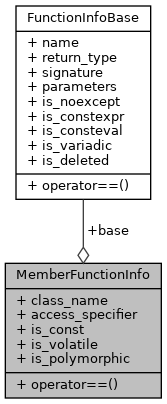
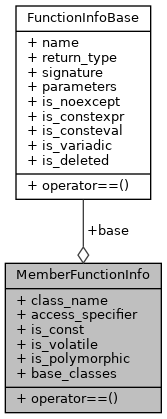
deploy: 15a5d1b0938e9108d34731b1898af5dda5c6f141

Changed region(s): [[0.0898, 0.0, 0.9281, 0.505], [0.0, 0.5941, 0.988, 1.0], [0.5389, 0.5347, 0.7784, 0.5941]]

diff --git a/_function_info_8h_source.html b/_function_info_8h_source.html
@@ -121,32 +121,33 @@ $(document).ready(function(){initNavTree('_function_info_8h_source.html',''); in
 <div class="line"><a name="l00045"></a><span class="lineno">   45</span>&#160;  <span class="keywordtype">bool</span> is_const = <span class="keyword">false</span>;</div>
 <div class="line"><a name="l00046"></a><span class="lineno">   46</span>&#160;  <span class="keywordtype">bool</span> is_volatile = <span class="keyword">false</span>;</div>
 <div class="line"><a name="l00047"></a><span class="lineno">   47</span>&#160;  <span class="keywordtype">bool</span> is_polymorphic = <span class="keyword">false</span>;  </div>
-<div class="line"><a name="l00048"></a><span class="lineno">   48</span>&#160; </div>
-<div class="line"><a name="l00049"></a><span class="lineno"><a class="line" href="struct_member_function_info.html#af4486e4066ab4496961a2c0274f5141f">   49</a></span>&#160;  <span class="keywordtype">bool</span> <a class="code" href="struct_member_function_info.html#af4486e4066ab4496961a2c0274f5141f">operator== </a>(<span class="keyword">const</span> <a class="code" href="struct_member_function_info.html">MemberFunctionInfo</a> &amp;rhs) <span class="keyword">const</span> noexcept {</div>
-<div class="line"><a name="l00050"></a><span class="lineno">   50</span>&#160;    <span class="keywordflow">return</span> (base == rhs.base</div>
-<div class="line"><a name="l00051"></a><span class="lineno">   51</span>&#160;      &amp;&amp; class_name == rhs.class_name</div>
-<div class="line"><a name="l00052"></a><span class="lineno">   52</span>&#160;      &amp;&amp; is_const == rhs.is_const</div>
-<div class="line"><a name="l00053"></a><span class="lineno">   53</span>&#160;      &amp;&amp; is_volatile == rhs.is_volatile</div>
-<div class="line"><a name="l00054"></a><span class="lineno">   54</span>&#160;    );</div>
-<div class="line"><a name="l00055"></a><span class="lineno">   55</span>&#160;  }</div>
-<div class="line"><a name="l00056"></a><span class="lineno">   56</span>&#160; </div>
-<div class="line"><a name="l00057"></a><span class="lineno">   57</span>&#160;} <a class="code" href="struct_member_function_info.html">MemberFunctionInfo</a>;</div>
-<div class="line"><a name="l00058"></a><span class="lineno">   58</span>&#160; </div>
-<div class="line"><a name="l00063"></a><span class="lineno"><a class="line" href="struct_function_info.html">   63</a></span>&#160;<span class="keyword">typedef</span> <span class="keyword">struct </span><a class="code" href="struct_function_info.html">FunctionInfo</a> {</div>
-<div class="line"><a name="l00064"></a><span class="lineno">   64</span>&#160;  <a class="code" href="struct_function_info_base.html">FunctionInfoBase</a> base;</div>
-<div class="line"><a name="l00065"></a><span class="lineno">   65</span>&#160;  <span class="keywordtype">bool</span> is_extern = <span class="keyword">false</span>;</div>
-<div class="line"><a name="l00066"></a><span class="lineno">   66</span>&#160;  <span class="keywordtype">bool</span> is_static = <span class="keyword">false</span>;</div>
-<div class="line"><a name="l00067"></a><span class="lineno">   67</span>&#160; </div>
-<div class="line"><a name="l00068"></a><span class="lineno">   68</span>&#160;  <span class="keywordtype">bool</span> operator== (<span class="keyword">const</span> <a class="code" href="struct_function_info.html">FunctionInfo</a> &amp;rhs) <span class="keyword">const</span> noexcept {</div>
-<div class="line"><a name="l00069"></a><span class="lineno">   69</span>&#160;    <span class="keywordflow">return</span> (base == rhs.base</div>
-<div class="line"><a name="l00070"></a><span class="lineno">   70</span>&#160;    );</div>
-<div class="line"><a name="l00071"></a><span class="lineno">   71</span>&#160;  }</div>
-<div class="line"><a name="l00072"></a><span class="lineno">   72</span>&#160;} <a class="code" href="struct_function_info.html">FunctionInfo</a>;</div>
+<div class="line"><a name="l00048"></a><span class="lineno"><a class="line" href="struct_member_function_info.html#a7a6d151d49ed90f919416332c3b09677">   48</a></span>&#160;  std::vector&lt;std::string&gt; <a class="code" href="struct_member_function_info.html#a7a6d151d49ed90f919416332c3b09677">base_classes</a>;</div>
+<div class="line"><a name="l00049"></a><span class="lineno">   49</span>&#160; </div>
+<div class="line"><a name="l00050"></a><span class="lineno">   50</span>&#160;  <span class="keywordtype">bool</span> operator== (<span class="keyword">const</span> <a class="code" href="struct_member_function_info.html">MemberFunctionInfo</a> &amp;rhs) <span class="keyword">const</span> noexcept {</div>
+<div class="line"><a name="l00051"></a><span class="lineno">   51</span>&#160;    <span class="keywordflow">return</span> (base == rhs.base</div>
+<div class="line"><a name="l00052"></a><span class="lineno">   52</span>&#160;      &amp;&amp; class_name == rhs.class_name</div>
+<div class="line"><a name="l00053"></a><span class="lineno">   53</span>&#160;      &amp;&amp; is_const == rhs.is_const</div>
+<div class="line"><a name="l00054"></a><span class="lineno">   54</span>&#160;      &amp;&amp; is_volatile == rhs.is_volatile</div>
+<div class="line"><a name="l00055"></a><span class="lineno">   55</span>&#160;    );</div>
+<div class="line"><a name="l00056"></a><span class="lineno">   56</span>&#160;  }</div>
+<div class="line"><a name="l00057"></a><span class="lineno">   57</span>&#160; </div>
+<div class="line"><a name="l00058"></a><span class="lineno">   58</span>&#160;} <a class="code" href="struct_member_function_info.html">MemberFunctionInfo</a>;</div>
+<div class="line"><a name="l00059"></a><span class="lineno">   59</span>&#160; </div>
+<div class="line"><a name="l00064"></a><span class="lineno"><a class="line" href="struct_function_info.html">   64</a></span>&#160;<span class="keyword">typedef</span> <span class="keyword">struct </span><a class="code" href="struct_function_info.html">FunctionInfo</a> {</div>
+<div class="line"><a name="l00065"></a><span class="lineno">   65</span>&#160;  <a class="code" href="struct_function_info_base.html">FunctionInfoBase</a> base;</div>
+<div class="line"><a name="l00066"></a><span class="lineno">   66</span>&#160;  <span class="keywordtype">bool</span> is_extern = <span class="keyword">false</span>;</div>
+<div class="line"><a name="l00067"></a><span class="lineno">   67</span>&#160;  <span class="keywordtype">bool</span> is_static = <span class="keyword">false</span>;</div>
+<div class="line"><a name="l00068"></a><span class="lineno">   68</span>&#160; </div>
+<div class="line"><a name="l00069"></a><span class="lineno">   69</span>&#160;  <span class="keywordtype">bool</span> operator== (<span class="keyword">const</span> <a class="code" href="struct_function_info.html">FunctionInfo</a> &amp;rhs) <span class="keyword">const</span> noexcept {</div>
+<div class="line"><a name="l00070"></a><span class="lineno">   70</span>&#160;    <span class="keywordflow">return</span> (base == rhs.base</div>
+<div class="line"><a name="l00071"></a><span class="lineno">   71</span>&#160;    );</div>
+<div class="line"><a name="l00072"></a><span class="lineno">   72</span>&#160;  }</div>
+<div class="line"><a name="l00073"></a><span class="lineno">   73</span>&#160;} <a class="code" href="struct_function_info.html">FunctionInfo</a>;</div>
 <div class="ttc" id="astruct_function_info_base_html"><div class="ttname"><a href="struct_function_info_base.html">FunctionInfoBase</a></div><div class="ttdef"><b>Definition:</b> FunctionInfo.h:5</div></div>
 <div class="ttc" id="astruct_function_info_base_html_a1328156eaf47d5de0c595598dc772e3c"><div class="ttname"><a href="struct_function_info_base.html#a1328156eaf47d5de0c595598dc772e3c">FunctionInfoBase::operator==</a></div><div class="ttdeci">bool operator==(const FunctionInfoBase &amp;rhs) const noexcept</div><div class="ttdoc">operator== for overload check</div><div class="ttdef"><b>Definition:</b> FunctionInfo.h:25</div></div>
-<div class="ttc" id="astruct_function_info_html"><div class="ttname"><a href="struct_function_info.html">FunctionInfo</a></div><div class="ttdoc">Function Info.</div><div class="ttdef"><b>Definition:</b> FunctionInfo.h:63</div></div>
+<div class="ttc" id="astruct_function_info_html"><div class="ttname"><a href="struct_function_info.html">FunctionInfo</a></div><div class="ttdoc">Function Info.</div><div class="ttdef"><b>Definition:</b> FunctionInfo.h:64</div></div>
 <div class="ttc" id="astruct_member_function_info_html"><div class="ttname"><a href="struct_member_function_info.html">MemberFunctionInfo</a></div><div class="ttdoc">Member Function Info.</div><div class="ttdef"><b>Definition:</b> FunctionInfo.h:36</div></div>
-<div class="ttc" id="astruct_member_function_info_html_af4486e4066ab4496961a2c0274f5141f"><div class="ttname"><a href="struct_member_function_info.html#af4486e4066ab4496961a2c0274f5141f">MemberFunctionInfo::operator==</a></div><div class="ttdeci">bool operator==(const MemberFunctionInfo &amp;rhs) const noexcept</div><div class="ttdoc">virtual, override or final</div><div class="ttdef"><b>Definition:</b> FunctionInfo.h:49</div></div>
+<div class="ttc" id="astruct_member_function_info_html_a7a6d151d49ed90f919416332c3b09677"><div class="ttname"><a href="struct_member_function_info.html#a7a6d151d49ed90f919416332c3b09677">MemberFunctionInfo::base_classes</a></div><div class="ttdeci">std::vector&lt; std::string &gt; base_classes</div><div class="ttdoc">virtual, override or final</div><div class="ttdef"><b>Definition:</b> FunctionInfo.h:48</div></div>
 </div><!-- fragment --></div><!-- contents -->
 </div><!-- doc-content -->
 <!-- start footer part -->

diff --git a/struct_member_function_info-members.html b/struct_member_function_info-members.html
@@ -93,11 +93,12 @@ $(document).ready(function(){initNavTree('struct_member_function_info.html','');
   <tr bgcolor="#f0f0f0" class="even"><td class="entry"><b>access_specifier</b> (defined in <a class="el" href="struct_member_function_info.html">MemberFunctionInfo</a>)</td><td class="entry"><a class="el" href="struct_member_function_info.html">MemberFunctionInfo</a></td><td class="entry"></td></tr>
   <tr bgcolor="#f0f0f0"><td class="entry"><b>AccessSpecifier</b> enum name (defined in <a class="el" href="struct_member_function_info.html">MemberFunctionInfo</a>)</td><td class="entry"><a class="el" href="struct_member_function_info.html">MemberFunctionInfo</a></td><td class="entry"></td></tr>
   <tr bgcolor="#f0f0f0" class="even"><td class="entry"><b>base</b> (defined in <a class="el" href="struct_member_function_info.html">MemberFunctionInfo</a>)</td><td class="entry"><a class="el" href="struct_member_function_info.html">MemberFunctionInfo</a></td><td class="entry"></td></tr>
-  <tr bgcolor="#f0f0f0"><td class="entry"><b>class_name</b> (defined in <a class="el" href="struct_member_function_info.html">MemberFunctionInfo</a>)</td><td class="entry"><a class="el" href="struct_member_function_info.html">MemberFunctionInfo</a></td><td class="entry"></td></tr>
-  <tr bgcolor="#f0f0f0" class="even"><td class="entry"><b>is_const</b> (defined in <a class="el" href="struct_member_function_info.html">MemberFunctionInfo</a>)</td><td class="entry"><a class="el" href="struct_member_function_info.html">MemberFunctionInfo</a></td><td class="entry"></td></tr>
-  <tr bgcolor="#f0f0f0"><td class="entry"><b>is_polymorphic</b> (defined in <a class="el" href="struct_member_function_info.html">MemberFunctionInfo</a>)</td><td class="entry"><a class="el" href="struct_member_function_info.html">MemberFunctionInfo</a></td><td class="entry"></td></tr>
-  <tr bgcolor="#f0f0f0" class="even"><td class="entry"><b>is_volatile</b> (defined in <a class="el" href="struct_member_function_info.html">MemberFunctionInfo</a>)</td><td class="entry"><a class="el" href="struct_member_function_info.html">MemberFunctionInfo</a></td><td class="entry"></td></tr>
-  <tr><td class="entry"><a class="el" href="struct_member_function_info.html#af4486e4066ab4496961a2c0274f5141f">operator==</a>(const MemberFunctionInfo &amp;rhs) const noexcept</td><td class="entry"><a class="el" href="struct_member_function_info.html">MemberFunctionInfo</a></td><td class="entry"><span class="mlabel">inline</span></td></tr>
+  <tr><td class="entry"><a class="el" href="struct_member_function_info.html#a7a6d151d49ed90f919416332c3b09677">base_classes</a></td><td class="entry"><a class="el" href="struct_member_function_info.html">MemberFunctionInfo</a></td><td class="entry"></td></tr>
+  <tr bgcolor="#f0f0f0" class="even"><td class="entry"><b>class_name</b> (defined in <a class="el" href="struct_member_function_info.html">MemberFunctionInfo</a>)</td><td class="entry"><a class="el" href="struct_member_function_info.html">MemberFunctionInfo</a></td><td class="entry"></td></tr>
+  <tr bgcolor="#f0f0f0"><td class="entry"><b>is_const</b> (defined in <a class="el" href="struct_member_function_info.html">MemberFunctionInfo</a>)</td><td class="entry"><a class="el" href="struct_member_function_info.html">MemberFunctionInfo</a></td><td class="entry"></td></tr>
+  <tr bgcolor="#f0f0f0" class="even"><td class="entry"><b>is_polymorphic</b> (defined in <a class="el" href="struct_member_function_info.html">MemberFunctionInfo</a>)</td><td class="entry"><a class="el" href="struct_member_function_info.html">MemberFunctionInfo</a></td><td class="entry"></td></tr>
+  <tr bgcolor="#f0f0f0"><td class="entry"><b>is_volatile</b> (defined in <a class="el" href="struct_member_function_info.html">MemberFunctionInfo</a>)</td><td class="entry"><a class="el" href="struct_member_function_info.html">MemberFunctionInfo</a></td><td class="entry"></td></tr>
+  <tr bgcolor="#f0f0f0" class="even"><td class="entry"><b>operator==</b>(const MemberFunctionInfo &amp;rhs) const noexcept (defined in <a class="el" href="struct_member_function_info.html">MemberFunctionInfo</a>)</td><td class="entry"><a class="el" href="struct_member_function_info.html">MemberFunctionInfo</a></td><td class="entry"><span class="mlabel">inline</span></td></tr>
 </table></div><!-- contents -->
 </div><!-- doc-content -->
 <!-- start footer part -->

diff --git a/struct_member_function_info.html b/struct_member_function_info.html
@@ -102,7 +102,7 @@ Collaboration diagram for MemberFunctionInfo:</div>
 <div class="dyncontent">
 <div class="center"><img src="struct_member_function_info__coll__graph.png" border="0" usemap="#a_member_function_info_coll__map" alt="Collaboration graph"/></div>
 <map name="a_member_function_info_coll__map" id="a_member_function_info_coll__map">
-<area shape="rect" title="Member Function Info." alt="" coords="5,263,161,399"/>
+<area shape="rect" title="Member Function Info." alt="" coords="5,263,161,413"/>
 <area shape="rect" href="struct_function_info_base.html" title=" " alt="" coords="16,5,151,200"/>
 </map>
 </div>
@@ -118,8 +118,7 @@ Public Types</h2></td></tr>
 <tr class="heading"><td colspan="2"><h2 class="groupheader"><a name="pub-methods"></a>
 Public Member Functions</h2></td></tr>
 <tr class="memitem:af4486e4066ab4496961a2c0274f5141f"><td class="memItemLeft" align="right" valign="top"><a id="af4486e4066ab4496961a2c0274f5141f"></a>
-bool&#160;</td><td class="memItemRight" valign="bottom"><a class="el" href="struct_member_function_info.html#af4486e4066ab4496961a2c0274f5141f">operator==</a> (const <a class="el" href="struct_member_function_info.html">MemberFunctionInfo</a> &amp;rhs) const noexcept</td></tr>
-<tr class="memdesc:af4486e4066ab4496961a2c0274f5141f"><td class="mdescLeft">&#160;</td><td class="mdescRight">virtual, override or final <br /></td></tr>
+bool&#160;</td><td class="memItemRight" valign="bottom"><b>operator==</b> (const <a class="el" href="struct_member_function_info.html">MemberFunctionInfo</a> &amp;rhs) const noexcept</td></tr>
 <tr class="separator:af4486e4066ab4496961a2c0274f5141f"><td class="memSeparator" colspan="2">&#160;</td></tr>
 </table><table class="memberdecls">
 <tr class="heading"><td colspan="2"><h2 class="groupheader"><a name="pub-attribs"></a>
@@ -142,6 +141,10 @@ bool&#160;</td><td class="memItemRight" valign="bottom"><b>is_volatile</b> = fal
 <tr class="memitem:a0810f63ec37e54c2ae62b83585b0d92b"><td class="memItemLeft" align="right" valign="top"><a id="a0810f63ec37e54c2ae62b83585b0d92b"></a>
 bool&#160;</td><td class="memItemRight" valign="bottom"><b>is_polymorphic</b> = false</td></tr>
 <tr class="separator:a0810f63ec37e54c2ae62b83585b0d92b"><td class="memSeparator" colspan="2">&#160;</td></tr>
+<tr class="memitem:a7a6d151d49ed90f919416332c3b09677"><td class="memItemLeft" align="right" valign="top"><a id="a7a6d151d49ed90f919416332c3b09677"></a>
+std::vector&lt; std::string &gt;&#160;</td><td class="memItemRight" valign="bottom"><a class="el" href="struct_member_function_info.html#a7a6d151d49ed90f919416332c3b09677">base_classes</a></td></tr>
+<tr class="memdesc:a7a6d151d49ed90f919416332c3b09677"><td class="mdescLeft">&#160;</td><td class="mdescRight">virtual, override or final <br /></td></tr>
+<tr class="separator:a7a6d151d49ed90f919416332c3b09677"><td class="memSeparator" colspan="2">&#160;</td></tr>
 </table>
 <a name="details" id="details"></a><h2 class="groupheader">Detailed Description</h2>
 <div class="textblock"><p>Member Function Info. </p>

diff --git a/navtreeindex0.js b/navtreeindex0.js
@@ -63,6 +63,7 @@ var NAVTREEINDEX0 =
 "files.html":[4,0],
 "functions.html":[3,3,0],
 "functions_func.html":[3,3,1],
+"functions_vars.html":[3,3,2],
 "hierarchy.html":[3,2],
 "index.html":[],
 "index.html#autotoc_md1":[0],
@@ -86,15 +87,16 @@ var NAVTREEINDEX0 =
 "struct_function_info_base.html#ae43bc616e5b3e9352f62d4c68608495e":[3,0,4,4],
 "struct_function_info_base.html#ae6290dd1a6a8fced103569a68ec55305":[3,0,4,2],
 "struct_member_function_info.html":[3,0,8],
-"struct_member_function_info.html#a0810f63ec37e54c2ae62b83585b0d92b":[3,0,8,6],
-"struct_member_function_info.html#a44a151cb8e3db28bd044f28d728283a7":[3,0,8,4],
+"struct_member_function_info.html#a0810f63ec37e54c2ae62b83585b0d92b":[3,0,8,7],
+"struct_member_function_info.html#a44a151cb8e3db28bd044f28d728283a7":[3,0,8,5],
 "struct_member_function_info.html#a5810c931eaa6aee214292f570720cf78":[3,0,8,3],
 "struct_member_function_info.html#a5cdab038d2a53050c1fca11b5584c7f8":[3,0,8,2],
-"struct_member_function_info.html#a87b15c204794d81bc9ab853757ca45c3":[3,0,8,7],
+"struct_member_function_info.html#a7a6d151d49ed90f919416332c3b09677":[3,0,8,4],
+"struct_member_function_info.html#a87b15c204794d81bc9ab853757ca45c3":[3,0,8,8],
 "struct_member_function_info.html#aad36e8db1fb2ccaa9483d9965e20bd27":[3,0,8,0],
 "struct_member_function_info.html#aad36e8db1fb2ccaa9483d9965e20bd27a23f56d95d0068609bb9b60b62af3a054":[3,0,8,0,1],
 "struct_member_function_info.html#aad36e8db1fb2ccaa9483d9965e20bd27a29b22e010bf2edfbf57a7a03522a64c9":[3,0,8,0,2],
 "struct_member_function_info.html#aad36e8db1fb2ccaa9483d9965e20bd27a8576a54b49c65252099050c24aa98095":[3,0,8,0,0],
-"struct_member_function_info.html#aced0283eb918bbf5106c72d3ad49aa8c":[3,0,8,5],
+"struct_member_function_info.html#aced0283eb918bbf5106c72d3ad49aa8c":[3,0,8,6],
 "struct_member_function_info.html#af4486e4066ab4496961a2c0274f5141f":[3,0,8,1]
 };

diff --git a/search/variables_0.html b/search/variables_0.html
@@ -1,0 +1,37 @@
+<!DOCTYPE html PUBLIC "-//W3C//DTD XHTML 1.0 Transitional//EN" "https://www.w3.org/TR/xhtml1/DTD/xhtml1-transitional.dtd">
+<html xmlns="http://www.w3.org/1999/xhtml">
+<head><title></title>
+<meta http-equiv="Content-Type" content="text/xhtml;charset=UTF-8"/>
+<meta name="generator" content="Doxygen 1.9.1"/>
+<link rel="stylesheet" type="text/css" href="search.css"/>
+<script type="text/javascript" src="variables_0.js"></script>
+<script type="text/javascript" src="search.js"></script>
+</head>
+<body class="SRPage">
+<div id="SRIndex">
+<div class="SRStatus" id="Loading">Loading...</div>
+<div id="SRResults"></div>
+<script type="text/javascript">
+/* @license magnet:?xt=urn:btih:cf05388f2679ee054f2beb29a391d25f4e673ac3&amp;dn=gpl-2.0.txt GPL-v2 */
+createResults();
+/* @license-end */
+</script>
+<div class="SRStatus" id="Searching">Searching...</div>
+<div class="SRStatus" id="NoMatches">No Matches</div>
+<script type="text/javascript">
+/* @license magnet:?xt=urn:btih:cf05388f2679ee054f2beb29a391d25f4e673ac3&amp;dn=gpl-2.0.txt GPL-v2 */
+document.getElementById("Loading").style.display="none";
+document.getElementById("NoMatches").style.display="none";
+var searchResults = new SearchResults("searchResults");
+searchResults.Search();
+window.addEventListener("message", function(event) {
+  if (event.data == "take_focus") {
+    var elem = searchResults.NavNext(0);
+    if (elem) elem.focus();
+  }
+});
+/* @license-end */
+</script>
+</div>
+</body>
+</html>

diff --git a/search/all_7.html b/search/all_7.html
@@ -1,0 +1,37 @@
+<!DOCTYPE html PUBLIC "-//W3C//DTD XHTML 1.0 Transitional//EN" "https://www.w3.org/TR/xhtml1/DTD/xhtml1-transitional.dtd">
+<html xmlns="http://www.w3.org/1999/xhtml">
+<head><title></title>
+<meta http-equiv="Content-Type" content="text/xhtml;charset=UTF-8"/>
+<meta name="generator" content="Doxygen 1.9.1"/>
+<link rel="stylesheet" type="text/css" href="search.css"/>
+<script type="text/javascript" src="all_7.js"></script>
+<script type="text/javascript" src="search.js"></script>
+</head>
+<body class="SRPage">
+<div id="SRIndex">
+<div class="SRStatus" id="Loading">Loading...</div>
+<div id="SRResults"></div>
+<script type="text/javascript">
+/* @license magnet:?xt=urn:btih:cf05388f2679ee054f2beb29a391d25f4e673ac3&amp;dn=gpl-2.0.txt GPL-v2 */
+createResults();
+/* @license-end */
+</script>
+<div class="SRStatus" id="Searching">Searching...</div>
+<div class="SRStatus" id="NoMatches">No Matches</div>
+<script type="text/javascript">
+/* @license magnet:?xt=urn:btih:cf05388f2679ee054f2beb29a391d25f4e673ac3&amp;dn=gpl-2.0.txt GPL-v2 */
+document.getElementById("Loading").style.display="none";
+document.getElementById("NoMatches").style.display="none";
+var searchResults = new SearchResults("searchResults");
+searchResults.Search();
+window.addEventListener("message", function(event) {
+  if (event.data == "take_focus") {
+    var elem = searchResults.NavNext(0);
+    if (elem) elem.focus();
+  }
+});
+/* @license-end */
+</script>
+</div>
+</body>
+</html>

diff --git a/functions_vars.html b/functions_vars.html
@@ -5,7 +5,7 @@
 <meta http-equiv="X-UA-Compatible" content="IE=9"/>
 <meta name="generator" content="Doxygen 1.9.1"/>
 <meta name="viewport" content="width=device-width, initial-scale=1"/>
-<title>gtgen: Class Members - Functions</title>
+<title>gtgen: Class Members - Variables</title>
 <link href="tabs.css" rel="stylesheet" type="text/css"/>
 <script type="text/javascript" src="jquery.js"></script>
 <script type="text/javascript" src="dynsections.js"></script>
@@ -64,7 +64,7 @@ $(function() {
 </div>
 <script type="text/javascript">
 /* @license magnet:?xt=urn:btih:cf05388f2679ee054f2beb29a391d25f4e673ac3&amp;dn=gpl-2.0.txt GPL-v2 */
-$(document).ready(function(){initNavTree('functions_func.html',''); initResizable(); });
+$(document).ready(function(){initNavTree('functions_vars.html',''); initResizable(); });
 /* @license-end */
 </script>
 <div id="doc-content">
@@ -84,8 +84,8 @@ $(document).ready(function(){initNavTree('functions_func.html',''); initResizabl
 
 <div class="contents">
 &#160;<ul>
-<li>operator==()
-: <a class="el" href="struct_function_info_base.html#a1328156eaf47d5de0c595598dc772e3c">FunctionInfoBase</a>
+<li>base_classes
+: <a class="el" href="struct_member_function_info.html#a7a6d151d49ed90f919416332c3b09677">MemberFunctionInfo</a>
 </li>
 </ul>
 </div><!-- contents -->

diff --git a/struct_member_function_info.js b/struct_member_function_info.js
@@ -8,6 +8,7 @@ var struct_member_function_info =
     [ "operator==", "struct_member_function_info.html#af4486e4066ab4496961a2c0274f5141f", null ],
     [ "access_specifier", "struct_member_function_info.html#a5cdab038d2a53050c1fca11b5584c7f8", null ],
     [ "base", "struct_member_function_info.html#a5810c931eaa6aee214292f570720cf78", null ],
+    [ "base_classes", "struct_member_function_info.html#a7a6d151d49ed90f919416332c3b09677", null ],
     [ "class_name", "struct_member_function_info.html#a44a151cb8e3db28bd044f28d728283a7", null ],
     [ "is_const", "struct_member_function_info.html#aced0283eb918bbf5106c72d3ad49aa8c", null ],
     [ "is_polymorphic", "struct_member_function_info.html#a0810f63ec37e54c2ae62b83585b0d92b", null ],

diff --git a/search/classes_2.js b/search/classes_2.js
@@ -1,7 +1,7 @@
 var searchData=
 [
-  ['functioninfo_17',['FunctionInfo',['../struct_function_info.html',1,'']]],
-  ['functioninfobase_18',['FunctionInfoBase',['../struct_function_info_base.html',1,'']]],
-  ['functionparser_19',['FunctionParser',['../class_function_parser.html',1,'']]],
-  ['functionparserimpl_20',['FunctionParserImpl',['../class_function_parser_impl.html',1,'']]]
+  ['functioninfo_18',['FunctionInfo',['../struct_function_info.html',1,'']]],
+  ['functioninfobase_19',['FunctionInfoBase',['../struct_function_info_base.html',1,'']]],
+  ['functionparser_20',['FunctionParser',['../class_function_parser.html',1,'']]],
+  ['functionparserimpl_21',['FunctionParserImpl',['../class_function_parser_impl.html',1,'']]]
 ];

diff --git a/search/classes_0.js b/search/classes_0.js
@@ -1,6 +1,6 @@
 var searchData=
 [
-  ['abstractcodeparser_13',['AbstractCodeParser',['../class_abstract_code_parser.html',1,'']]],
-  ['abstracttestharness_14',['AbstractTestHarness',['../class_abstract_test_harness.html',1,'']]],
-  ['abstracttestharness_3c_20functionparser_20_3e_15',['AbstractTestHarness&lt; FunctionParser &gt;',['../class_abstract_test_harness.html',1,'']]]
+  ['abstractcodeparser_14',['AbstractCodeParser',['../class_abstract_code_parser.html',1,'']]],
+  ['abstracttestharness_15',['AbstractTestHarness',['../class_abstract_test_harness.html',1,'']]],
+  ['abstracttestharness_3c_20functionparser_20_3e_16',['AbstractTestHarness&lt; FunctionParser &gt;',['../class_abstract_test_harness.html',1,'']]]
 ];

diff --git a/functions.html b/functions.html
@@ -84,9 +84,11 @@ $(document).ready(function(){initNavTree('functions.html',''); initResizable(); 
 
 <div class="contents">
 <div class="textblock">Here is a list of all documented class members with links to the class documentation for each member:</div><ul>
+<li>base_classes
+: <a class="el" href="struct_member_function_info.html#a7a6d151d49ed90f919416332c3b09677">MemberFunctionInfo</a>
+</li>
 <li>operator==()
 : <a class="el" href="struct_function_info_base.html#a1328156eaf47d5de0c595598dc772e3c">FunctionInfoBase</a>
-, <a class="el" href="struct_member_function_info.html#af4486e4066ab4496961a2c0274f5141f">MemberFunctionInfo</a>
 </li>
 </ul>
 </div><!-- contents -->

diff --git a/search/all_3.js b/search/all_3.js
@@ -1,5 +1,7 @@
 var searchData=
 [
-  ['googlemockharness_8',['GoogleMockHarness',['../class_google_mock_harness.html',1,'']]],
-  ['gtgen_9',['gtgen',['../index.html',1,'']]]
+  ['functioninfo_5',['FunctionInfo',['../struct_function_info.html',1,'']]],
+  ['functioninfobase_6',['FunctionInfoBase',['../struct_function_info_base.html',1,'']]],
+  ['functionparser_7',['FunctionParser',['../class_function_parser.html',1,'']]],
+  ['functionparserimpl_8',['FunctionParserImpl',['../class_function_parser_impl.html',1,'']]]
 ];
